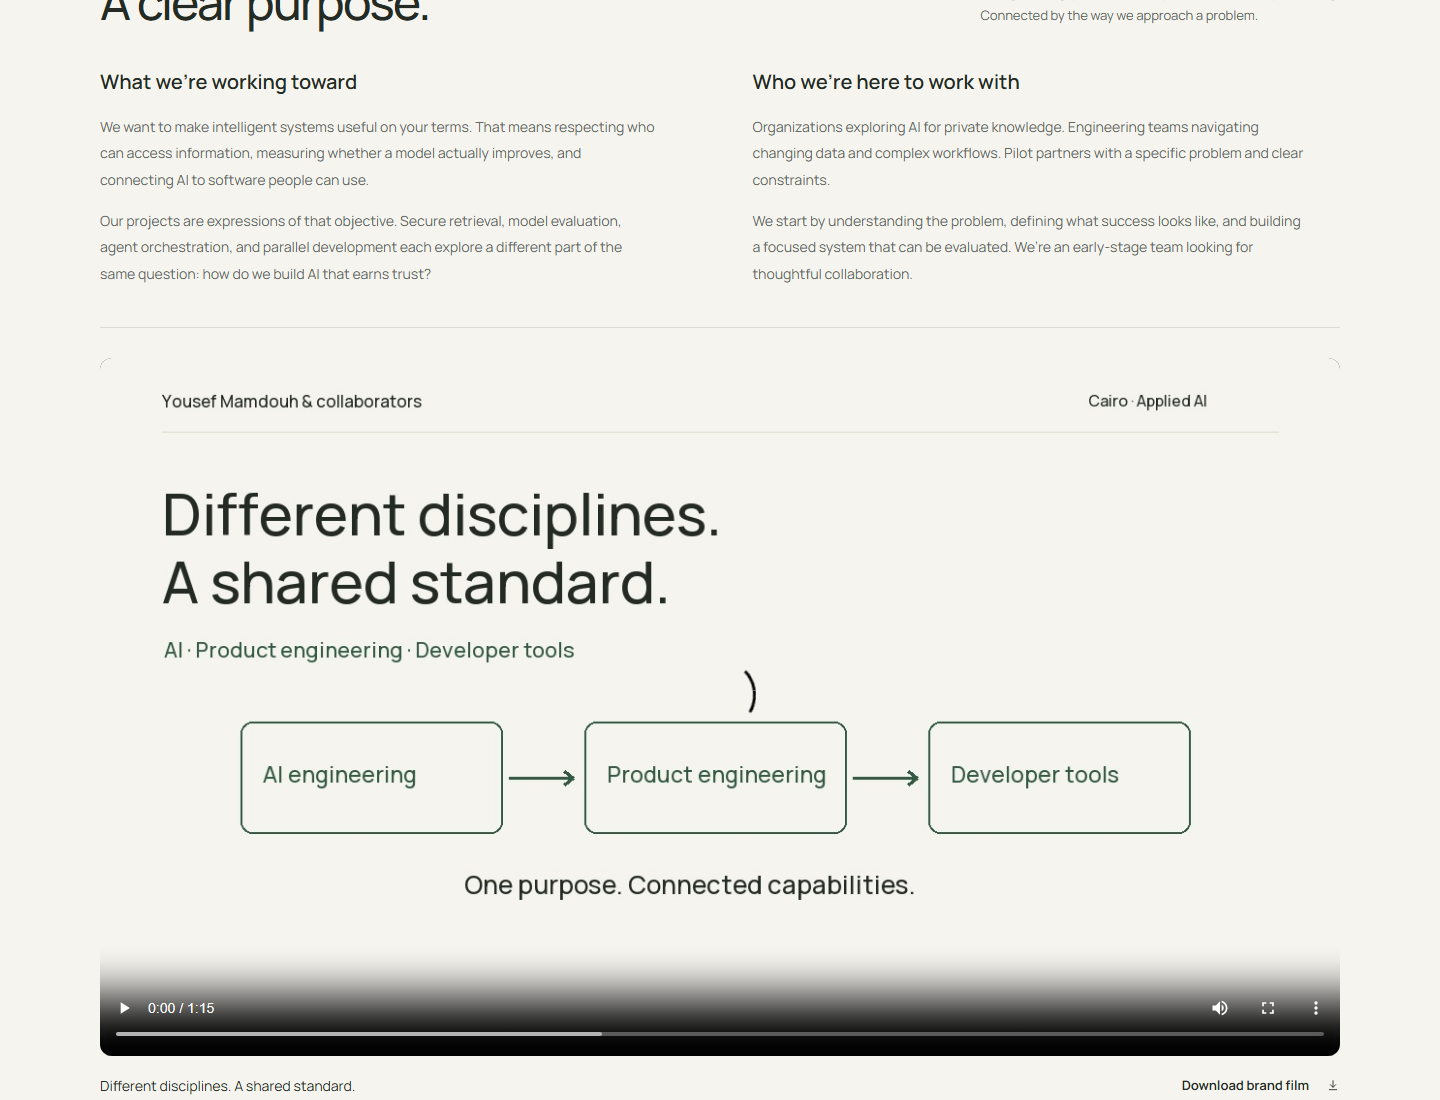
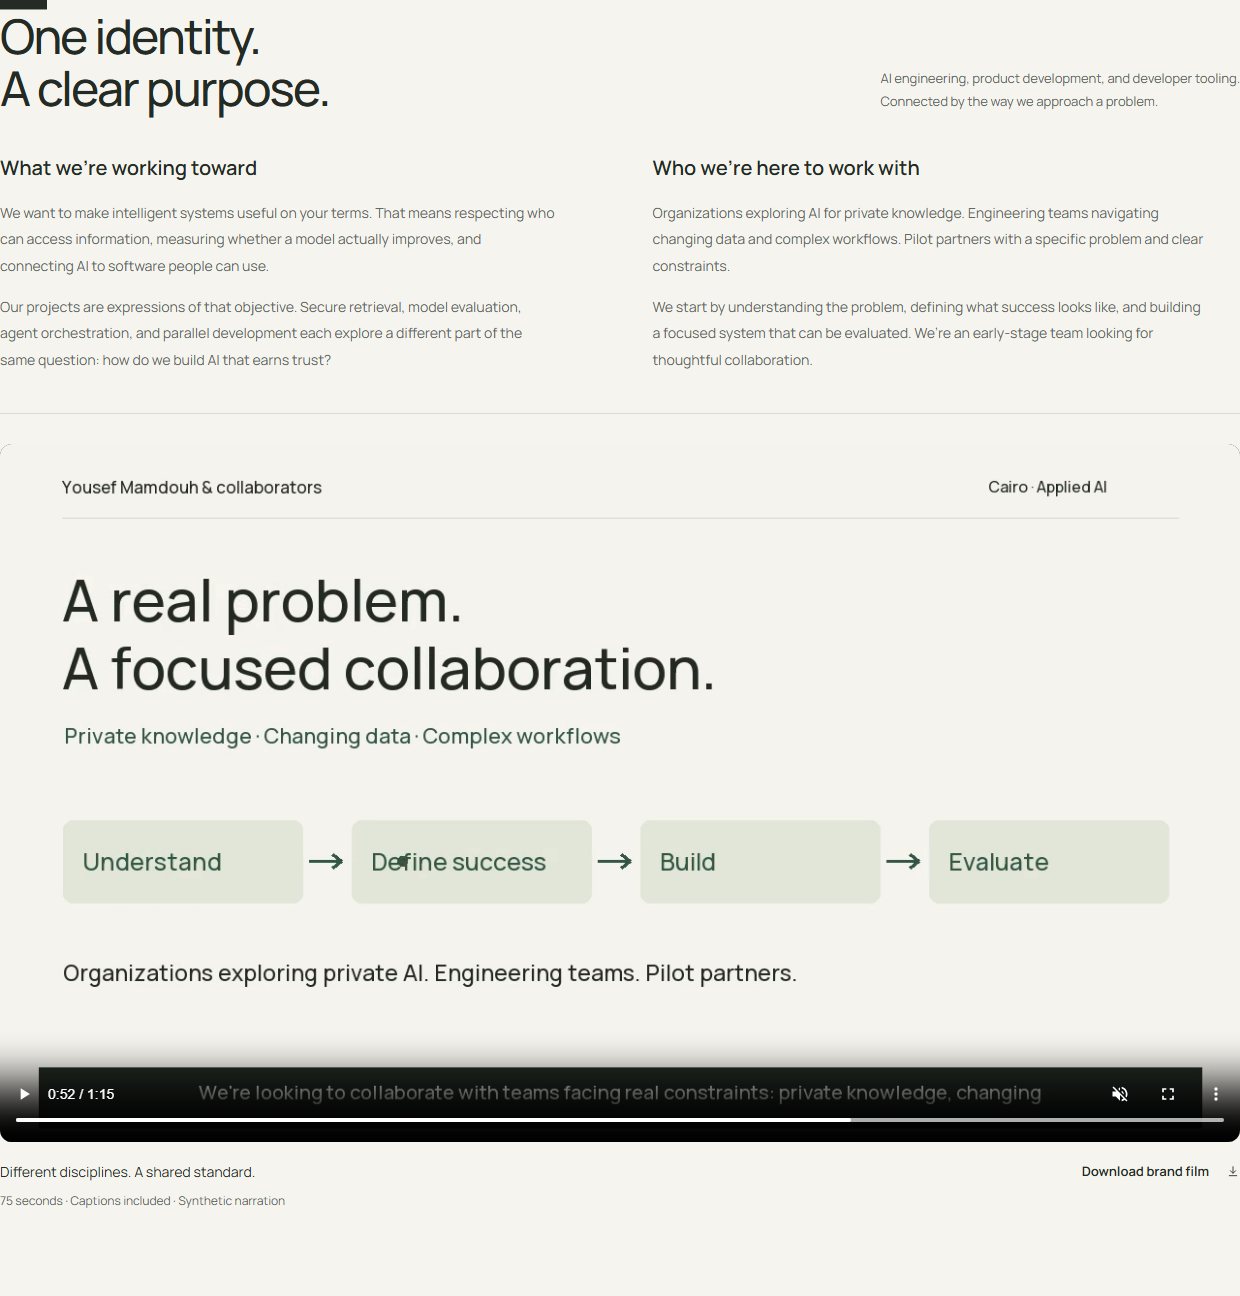
working tech summit speakers

diff --git a/data/techne-summit-2026-outreach-strategy.html b/data/techne-summit-2026-outreach-strategy.html
@@ -54,22 +54,20 @@
 </tr>
 </thead>
 <tbody><tr>
-<td data-label="
-
-File"><a href="techne-summit-2026-speakers.csv">Speakers</a></td>
+<td data-label="File"><a href="techne-summit-2026-speakers.csv">Speakers</a></td>
 <td data-label="Coverage">424 directory records across seven pages; repeated names are preserved under their published IDs.</td>
 </tr>
 <tr>
-<td data-label=""><a href="techne-summit-2026-workshops.csv">Workshops</a></td>
-<td data-label="">54 listed workshops across three pages, including full detail-page titles, descriptions, eligibility and registration status.</td>
+<td data-label="File"><a href="techne-summit-2026-workshops.csv">Workshops</a></td>
+<td data-label="Coverage">54 listed workshops across three pages, including full detail-page titles, descriptions, eligibility and registration status.</td>
 </tr>
 <tr>
-<td data-label=""><a href="techne-summit-2026-meet-and-greet.csv">Meet and greet</a></td>
-<td data-label="">15 listed sessions, including the individual detail pages and host information.</td>
+<td data-label="File"><a href="techne-summit-2026-meet-and-greet.csv">Meet and greet</a></td>
+<td data-label="Coverage">15 listed sessions, including the individual detail pages and host information.</td>
 </tr>
 <tr>
-<td data-label=""><a href="techne-summit-2026-ranked-opportunities.csv">Ranked opportunities</a></td>
-<td data-label="">31 selected contacts, ranked by practical outreach priority, with rationale, an opening question, a specific ask and source URLs.</td>
+<td data-label="File"><a href="techne-summit-2026-ranked-opportunities.csv">Ranked opportunities</a></td>
+<td data-label="Coverage">31 selected contacts, ranked by practical outreach priority, with rationale, an opening question, a specific ask and source URLs.</td>
 </tr>
 </tbody></table></div>
 <p>Workshop and meeting company/country fields were joined to speaker records. The match method and speaker source are included. Names were preserved as published, including reviewed spelling variants. No personal email addresses or phone numbers were invented.</p>
@@ -85,66 +83,64 @@ File"><a href="techne-summit-2026-speakers.csv">Speakers</a></td>
 </tr>
 </thead>
 <tbody><tr>
-<td data-label="
-
-Rank">1</td>
+<td data-label="Rank">1</td>
 <td data-label="Person and organization">Amr Saleh — Bosta</td>
 <td data-label="Best opportunity">Potential operational AI pilot sponsor</td>
 <td data-label="Present and ask">Guardian RAG: ask about a recurring operations/support knowledge problem and request discovery with its owner.</td>
 </tr>
 <tr>
-<td data-label="">2</td>
-<td data-label="">Mohamed Mostafa — WideBot</td>
-<td data-label="">AI delivery or evaluation collaboration</td>
-<td data-label="">AutoFT: ask how candidate model versions are evaluated and whether a bounded evaluation engagement would help.</td>
+<td data-label="Rank">2</td>
+<td data-label="Person and organization">Mohamed Mostafa — WideBot</td>
+<td data-label="Best opportunity">AI delivery or evaluation collaboration</td>
+<td data-label="Present and ask">AutoFT: ask how candidate model versions are evaluated and whether a bounded evaluation engagement would help.</td>
 </tr>
 <tr>
-<td data-label="">3</td>
-<td data-label="">Nemat Zahran — Deloitte</td>
-<td data-label="">Specialist AI delivery collaboration</td>
-<td data-label="">AutoFT and Guardian RAG: discuss deployment failures, evaluation and access boundaries; ask for a technical review and delivery-partner routing.</td>
+<td data-label="Rank">3</td>
+<td data-label="Person and organization">Nemat Zahran — Deloitte</td>
+<td data-label="Best opportunity">Specialist AI delivery collaboration</td>
+<td data-label="Present and ask">AutoFT and Guardian RAG: discuss deployment failures, evaluation and access boundaries; ask for a technical review and delivery-partner routing.</td>
 </tr>
 <tr>
-<td data-label="">4</td>
-<td data-label="">Mohamed Tobar — Makkook AI</td>
-<td data-label="">Enterprise AI delivery collaboration</td>
-<td data-label="">Guardian RAG or one KRONOS workflow: identify a specific delivery gap. Mahmoud Hegab is an alternate contact at the same organization.</td>
+<td data-label="Rank">4</td>
+<td data-label="Person and organization">Mohamed Tobar — Makkook AI</td>
+<td data-label="Best opportunity">Enterprise AI delivery collaboration</td>
+<td data-label="Present and ask">Guardian RAG or one KRONOS workflow: identify a specific delivery gap. Mahmoud Hegab is an alternate contact at the same organization.</td>
 </tr>
 <tr>
-<td data-label="">5</td>
-<td data-label="">Jerome Challandard — Blue Bridge Group AI</td>
-<td data-label="">Enterprise implementation partnership</td>
-<td data-label="">Guardian RAG or one KRONOS workflow: ask where implementation capacity is missing and seek a delivery-lead introduction.</td>
+<td data-label="Rank">5</td>
+<td data-label="Person and organization">Jerome Challandard — Blue Bridge Group AI</td>
+<td data-label="Best opportunity">Enterprise implementation partnership</td>
+<td data-label="Present and ask">Guardian RAG or one KRONOS workflow: ask where implementation capacity is missing and seek a delivery-lead introduction.</td>
 </tr>
 <tr>
-<td data-label="">6</td>
-<td data-label="">Galal Elbeshbishy — Synapse Analytics</td>
-<td data-label="">AI evaluation collaboration</td>
-<td data-label="">AutoFT: qualify whether a live LLM workflow has manual evaluation or monitoring gaps.</td>
+<td data-label="Rank">6</td>
+<td data-label="Person and organization">Galal Elbeshbishy — Synapse Analytics</td>
+<td data-label="Best opportunity">AI evaluation collaboration</td>
+<td data-label="Present and ask">AutoFT: qualify whether a live LLM workflow has manual evaluation or monitoring gaps.</td>
 </tr>
 <tr>
-<td data-label="">7</td>
-<td data-label="">Amany Helmy — Blissify</td>
-<td data-label="">HR knowledge pilot or client introduction</td>
-<td data-label="">Guardian RAG: demonstrate role-specific policy answers and ask about onboarding questions.</td>
+<td data-label="Rank">7</td>
+<td data-label="Person and organization">Amany Helmy — Blissify</td>
+<td data-label="Best opportunity">HR knowledge pilot or client introduction</td>
+<td data-label="Present and ask">Guardian RAG: demonstrate role-specific policy answers and ask about onboarding questions.</td>
 </tr>
 <tr>
-<td data-label="">8</td>
-<td data-label="">Amr Shawqy — Signit</td>
-<td data-label="">Agreement/document workflow collaboration</td>
-<td data-label="">Guardian RAG: demonstrate permission-aware retrieval and ask about a contract-search workflow.</td>
+<td data-label="Rank">8</td>
+<td data-label="Person and organization">Amr Shawqy — Signit</td>
+<td data-label="Best opportunity">Agreement/document workflow collaboration</td>
+<td data-label="Present and ask">Guardian RAG: demonstrate permission-aware retrieval and ask about a contract-search workflow.</td>
 </tr>
 <tr>
-<td data-label="">9</td>
-<td data-label="">Youssef Al Refaey — Meska AI</td>
-<td data-label="">Corporate-training-to-implementation partnership</td>
-<td data-label="">KRONOS and Guardian RAG: ask what clients need implemented after AI training.</td>
+<td data-label="Rank">9</td>
+<td data-label="Person and organization">Youssef Al Refaey — Meska AI</td>
+<td data-label="Best opportunity">Corporate-training-to-implementation partnership</td>
+<td data-label="Present and ask">KRONOS and Guardian RAG: ask what clients need implemented after AI training.</td>
 </tr>
 <tr>
-<td data-label="">10</td>
-<td data-label="">Alison Cossette — ClariTrace</td>
-<td data-label="">Architecture feedback and technical introductions</td>
-<td data-label="">Guardian RAG and AutoFT: discuss retrieval provenance, permission boundaries and evaluation.</td>
+<td data-label="Rank">10</td>
+<td data-label="Person and organization">Alison Cossette — ClariTrace</td>
+<td data-label="Best opportunity">Architecture feedback and technical introductions</td>
+<td data-label="Present and ask">Guardian RAG and AutoFT: discuss retrieval provenance, permission boundaries and evaluation.</td>
 </tr>
 </tbody></table></div>
 <p>These contacts&#39; published roles and biographies support relevance, not buying intent. Sources: <a href="https://technesummit.com/2026/speakers?page=3">speaker page 3</a>, <a href="https://technesummit.com/2026/speakers?page=5">page 5</a>, <a href="https://technesummit.com/2026/speakers?page=6">page 6</a>, <a href="https://technesummit.com/2026/speakers?page=7">page 7</a>. Each CSV row contains its individual directory source and applicable session links.</p>
@@ -161,66 +157,64 @@ Rank">1</td>
 </tr>
 </thead>
 <tbody><tr>
-<td data-label="
-
-Upside rank">1</td>
+<td data-label="Upside rank">1</td>
 <td data-label="Person">Nemat Zahran — Deloitte</td>
 <td data-label="Potential path">Specialist delivery across enterprise engagements</td>
 <td data-label="Why it may take longer">Partner qualification and delivery expectations.</td>
 </tr>
 <tr>
-<td data-label="">2</td>
-<td data-label="">Jerome Challandard — Blue Bridge Group AI</td>
-<td data-label="">Repeat enterprise transformation delivery</td>
-<td data-label="">Demonstrated demand and partner onboarding needed.</td>
+<td data-label="Upside rank">2</td>
+<td data-label="Person">Jerome Challandard — Blue Bridge Group AI</td>
+<td data-label="Potential path">Repeat enterprise transformation delivery</td>
+<td data-label="Why it may take longer">Demonstrated demand and partner onboarding needed.</td>
 </tr>
 <tr>
-<td data-label="">3</td>
-<td data-label="">Dina Sallam — Orange</td>
-<td data-label="">Enterprise AI quality or knowledge workflow</td>
-<td data-label="">Procurement, existing platforms and data access.</td>
+<td data-label="Upside rank">3</td>
+<td data-label="Person">Dina Sallam — Orange</td>
+<td data-label="Potential path">Enterprise AI quality or knowledge workflow</td>
+<td data-label="Why it may take longer">Procurement, existing platforms and data access.</td>
 </tr>
 <tr>
-<td data-label="">4</td>
-<td data-label="">Amr Saleh — Bosta</td>
-<td data-label="">Pilot that could expand across operational workflows</td>
-<td data-label="">A specific workflow owner and business case must be found.</td>
+<td data-label="Upside rank">4</td>
+<td data-label="Person">Amr Saleh — Bosta</td>
+<td data-label="Potential path">Pilot that could expand across operational workflows</td>
+<td data-label="Why it may take longer">A specific workflow owner and business case must be found.</td>
 </tr>
 <tr>
-<td data-label="">5</td>
-<td data-label="">Galal Elbeshbishy — Synapse Analytics</td>
-<td data-label="">Repeat AI engineering collaboration</td>
-<td data-label="">LLM workload fit and external delivery demand are unconfirmed.</td>
+<td data-label="Upside rank">5</td>
+<td data-label="Person">Galal Elbeshbishy — Synapse Analytics</td>
+<td data-label="Potential path">Repeat AI engineering collaboration</td>
+<td data-label="Why it may take longer">LLM workload fit and external delivery demand are unconfirmed.</td>
 </tr>
 <tr>
-<td data-label="">6</td>
-<td data-label="">Mohamed Mostafa — WideBot</td>
-<td data-label="">Evaluation or retrieval collaboration across products</td>
-<td data-label="">Existing in-house capabilities may already solve the problem.</td>
+<td data-label="Upside rank">6</td>
+<td data-label="Person">Mohamed Mostafa — WideBot</td>
+<td data-label="Potential path">Evaluation or retrieval collaboration across products</td>
+<td data-label="Why it may take longer">Existing in-house capabilities may already solve the problem.</td>
 </tr>
 <tr>
-<td data-label="">7</td>
-<td data-label="">Ahmed Taher — Vezeeta</td>
-<td data-label="">Agent evaluation and workflow integrations</td>
-<td data-label="">Sensitive data and product assurance requirements.</td>
+<td data-label="Upside rank">7</td>
+<td data-label="Person">Ahmed Taher — Vezeeta</td>
+<td data-label="Potential path">Agent evaluation and workflow integrations</td>
+<td data-label="Why it may take longer">Sensitive data and product assurance requirements.</td>
 </tr>
 <tr>
-<td data-label="">8</td>
-<td data-label="">Amr Shawqy — Signit</td>
-<td data-label="">Governed document and agreement workflows</td>
-<td data-label="">Product overlap and document-security requirements.</td>
+<td data-label="Upside rank">8</td>
+<td data-label="Person">Amr Shawqy — Signit</td>
+<td data-label="Potential path">Governed document and agreement workflows</td>
+<td data-label="Why it may take longer">Product overlap and document-security requirements.</td>
 </tr>
 <tr>
-<td data-label="">9</td>
-<td data-label="">Karima El Hakim — Plug and Play</td>
-<td data-label="">Corporate pilot matching and venture pathways</td>
-<td data-label="">Eligibility and focused customer evidence needed.</td>
+<td data-label="Upside rank">9</td>
+<td data-label="Person">Karima El Hakim — Plug and Play</td>
+<td data-label="Potential path">Corporate pilot matching and venture pathways</td>
+<td data-label="Why it may take longer">Eligibility and focused customer evidence needed.</td>
 </tr>
 <tr>
-<td data-label="">10</td>
-<td data-label="">Mohamed Kassem — Microsoft</td>
-<td data-label="">Enterprise ecosystem routing</td>
-<td data-label="">Less direct access; start technical discovery with Mohamed Ramadan.</td>
+<td data-label="Upside rank">10</td>
+<td data-label="Person">Mohamed Kassem — Microsoft</td>
+<td data-label="Potential path">Enterprise ecosystem routing</td>
+<td data-label="Why it may take longer">Less direct access; start technical discovery with Mohamed Ramadan.</td>
 </tr>
 </tbody></table></div>
 <p>Additional published evidence: <a href="https://technesummit.com/2026/speakers?page=4">speaker page 4</a>, <a href="https://technesummit.com/2026/speakers?page=5">speaker page 5</a>, <a href="https://technesummit.com/2026/speakers?page=3">speaker page 3</a>, <a href="https://technesummit.com/2026/speakers">speaker page 1</a>. Roles are as published by the event; budgets, procurement authority and availability are unverified.</p>
@@ -236,42 +230,40 @@ Upside rank">1</td>
 </tr>
 </thead>
 <tbody><tr>
-<td data-label="
-
-Time">14:20–15:20</td>
+<td data-label="Time">14:20–15:20</td>
 <td data-label="Session">Ahmed Raafat: The AI-Native SDLC</td>
 <td data-label="Location">Stage 05, Multipurpose Room, Workshops A</td>
 <td data-label="Purpose">Get feedback on engineering credibility and the right ecosystem route.</td>
 </tr>
 <tr>
-<td data-label="">14:30–15:00</td>
-<td data-label="">Serdar Yucel meet and greet</td>
-<td data-label="">Stage 08, Meet &amp; Greet</td>
-<td data-label="">Alternative to Ahmed&#39;s workshop: ask for buyer-selection advice and one introduction.</td>
+<td data-label="Time">14:30–15:00</td>
+<td data-label="Session">Serdar Yucel meet and greet</td>
+<td data-label="Location">Stage 08, Meet &amp; Greet</td>
+<td data-label="Purpose">Alternative to Ahmed&#39;s workshop: ask for buyer-selection advice and one introduction.</td>
 </tr>
 <tr>
-<td data-label="">15:30–16:30</td>
-<td data-label="">Nemat Zahran: Deployment Diaries</td>
-<td data-label="">Stage 05, Multipurpose Room, Workshops A</td>
-<td data-label="">Best match for AutoFT, real-world evaluation and delivery partnership discussion.</td>
+<td data-label="Time">15:30–16:30</td>
+<td data-label="Session">Nemat Zahran: Deployment Diaries</td>
+<td data-label="Location">Stage 05, Multipurpose Room, Workshops A</td>
+<td data-label="Purpose">Best match for AutoFT, real-world evaluation and delivery partnership discussion.</td>
 </tr>
 <tr>
-<td data-label="">16:40–17:40</td>
-<td data-label="">Mohamed Mostafa: AI for Business / AI ROI</td>
-<td data-label="">Stage 06, Auditorium, Workshops B</td>
-<td data-label="">Discuss measurable AI value and a bounded evaluation collaboration.</td>
+<td data-label="Time">16:40–17:40</td>
+<td data-label="Session">Mohamed Mostafa: AI for Business / AI ROI</td>
+<td data-label="Location">Stage 06, Auditorium, Workshops B</td>
+<td data-label="Purpose">Discuss measurable AI value and a bounded evaluation collaboration.</td>
 </tr>
 <tr>
-<td data-label="">17:50–18:50</td>
-<td data-label="">Ehsan Sayed: The Connected AI Stack</td>
-<td data-label="">Stage 07, Room C, Workshops C</td>
-<td data-label="">Identify implementation or referral opportunities after AI training.</td>
+<td data-label="Time">17:50–18:50</td>
+<td data-label="Session">Ehsan Sayed: The Connected AI Stack</td>
+<td data-label="Location">Stage 07, Room C, Workshops C</td>
+<td data-label="Purpose">Identify implementation or referral opportunities after AI training.</td>
 </tr>
 <tr>
-<td data-label="">18:30–19:15</td>
-<td data-label="">Jerome Challandard: When Capital Changes the Bigger Picture</td>
-<td data-label="">Stage 04, Techne Arena</td>
-<td data-label="">Alternative to the full Ehsan session: seek an enterprise delivery introduction.</td>
+<td data-label="Time">18:30–19:15</td>
+<td data-label="Session">Jerome Challandard: When Capital Changes the Bigger Picture</td>
+<td data-label="Location">Stage 04, Techne Arena</td>
+<td data-label="Purpose">Alternative to the full Ehsan session: seek an enterprise delivery introduction.</td>
 </tr>
 </tbody></table></div>
 <p>Recommended route: <strong>Ahmed → Nemat → Mohamed</strong>. Choose <strong>Ehsan or Jerome</strong> afterwards according to whether the immediate goal is a smaller workflow engagement or an enterprise delivery partnership. Ahmed overlaps Serdar; Ehsan overlaps Jerome. Nemat also overlaps Mohamed Khedr&#39;s meet-and-greet. The 10-minute gap between Nemat and Mohamed may be too short for both a substantial conversation and travel; ask for permission to follow up briefly and check the venue map.</p>
@@ -294,31 +286,29 @@ Time">14:20–15:20</td>
 </tr>
 </thead>
 <tbody><tr>
-<td data-label="
-
-Project">Guardian RAG</td>
+<td data-label="Project">Guardian RAG</td>
 <td data-label="Best audience">HR/operations teams, governed document products, enterprise implementers</td>
 <td data-label="Demonstration and next step">Same question under two roles; allowed passages, citations and audit trail. Ask to qualify one internal-knowledge workflow.</td>
 </tr>
 <tr>
-<td data-label="">AutoFT</td>
-<td data-label="">Teams operating LLM products or agents</td>
-<td data-label="">Baseline evaluation, drift signal, candidate comparison and a rejected release when improvement is insufficient. Ask about an evaluation audit before automated retraining.</td>
+<td data-label="Project">AutoFT</td>
+<td data-label="Best audience">Teams operating LLM products or agents</td>
+<td data-label="Demonstration and next step">Baseline evaluation, drift signal, candidate comparison and a rejected release when improvement is insufficient. Ask about an evaluation audit before automated retraining.</td>
 </tr>
 <tr>
-<td data-label="">KRONOS</td>
-<td data-label="">AI integrators and teams with a specific workflow</td>
-<td data-label="">One small orchestration flow with an observable result. Ask about one integration problem.</td>
+<td data-label="Project">KRONOS</td>
+<td data-label="Best audience">AI integrators and teams with a specific workflow</td>
+<td data-label="Demonstration and next step">One small orchestration flow with an observable result. Ask about one integration problem.</td>
 </tr>
 <tr>
-<td data-label="">Swarminal</td>
-<td data-label="">Developer-tooling contacts and engineering teams</td>
-<td data-label="">Coordinated terminal/agent sessions. Ask for workflow feedback or a design-partner interview.</td>
+<td data-label="Project">Swarminal</td>
+<td data-label="Best audience">Developer-tooling contacts and engineering teams</td>
+<td data-label="Demonstration and next step">Coordinated terminal/agent sessions. Ask for workflow feedback or a design-partner interview.</td>
 </tr>
 <tr>
-<td data-label="">Nest Invest</td>
-<td data-label="">Fintech technical contacts</td>
-<td data-label="">Present it as a graduation-project integration example. Use it to establish engineering capability rather than as evidence of investment returns or a validated commercial product.</td>
+<td data-label="Project">Nest Invest</td>
+<td data-label="Best audience">Fintech technical contacts</td>
+<td data-label="Demonstration and next step">Present it as a graduation-project integration example. Use it to establish engineering capability rather than as evidence of investment returns or a validated commercial product.</td>
 </tr>
 </tbody></table></div>
 <p>Keep the card structure supplied in the brief: product → value proposition → technical proof → capability tags → CTA. A source repository supports the case study; the initial conversation should make the business use case understandable. Label working prototypes, experiments and private case studies accurately. Agree who represents each project before presenting a shared team offer.</p>
